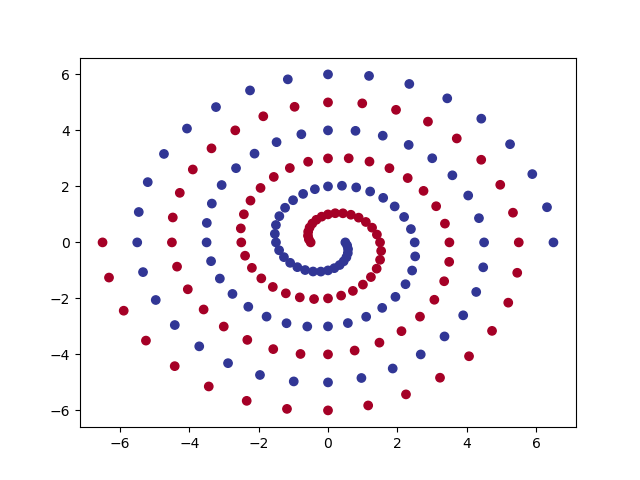
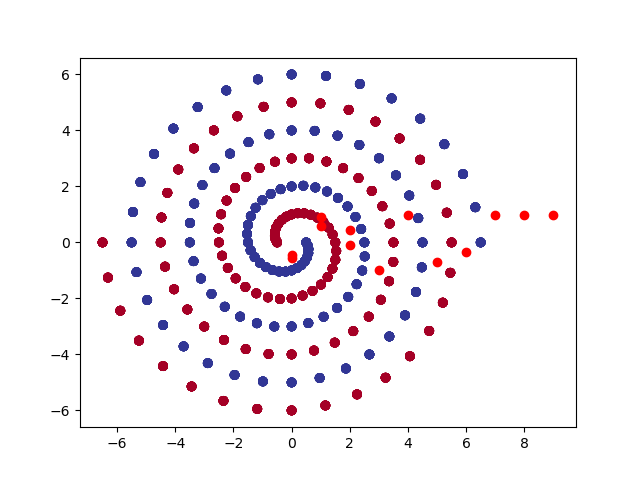
Q 7

diff --git a/COMP9444/Ass/Ass1/spiral.py b/COMP9444/Ass/Ass1/spiral.py
@@ -23,6 +23,7 @@ class PolarNet(torch.nn.Module):
         self.linear2 = torch.nn.Linear(num_hid, 1)  # Why 1 instead of 2?
         self.Tanh = torch.nn.Tanh()
         self.sigmoid = nn.Sigmoid()
+        self.hid1 = 0
 
     def forward(self, input):
         r = cartToPolar(input[:, 0], input[:, 1])
@@ -31,11 +32,13 @@ class PolarNet(torch.nn.Module):
         #print(out)
         out = self.linear1(out)
         out = self.Tanh(out)
+        self.hid1 = out
         out = self.linear2(out)
         #print(self.sigmoid(out))
         return self.sigmoid(out)
 
-class RawNet(torch.nn.Module):
+# python3 spiral_main.py --net raw --init 0.2
+class RawNet(torch.nn.Module): 
     def __init__(self, num_hid):
         super(RawNet, self).__init__()
         self.linear1 = torch.nn.Linear(2, num_hid)
@@ -43,13 +46,17 @@ class RawNet(torch.nn.Module):
         self.linear3 = torch.nn.Linear(num_hid, 1)
         self.Tanh = torch.nn.Tanh()
         self.sigmoid = nn.Sigmoid()
+        self.hid1 = 0
+        self.hid2 = 0
 
     def forward(self, input):
         out = input
         out = self.linear1(out)
         out = self.Tanh(out)
+        self.hid1 = out
         out = self.linear2(out)
         out = self.Tanh(out)
+        self.hid2 = out
         out = self.linear3(out)
         out = self.sigmoid(out)
         return out
@@ -62,17 +69,32 @@ class ShortNet(torch.nn.Module):
         self.linear3 = torch.nn.Linear(num_hid + num_hid + 2, 1)
         self.Tanh = torch.nn.Tanh()
         self.sigmoid = nn.Sigmoid()
+        self.hid1 = 0
+        self.hid2 = 0
 
-    def forward(self, input): ### Merge
+# python3 spiral_main.py --net short --hid 8
+    def forward(self, input):       # --hid 8
         out = input
-        out = self.linear1(out)
-        out = self.Tanh(out)
-        out = self.linear2(out)
-        out = self.Tanh(out)
-        out = self.linear3(out)
-        out = self.sigmoid(out)
-        return out
+        out1 = self.linear1(out)
+        out1 = self.Tanh(out1)
+        self.hid1 = out1
+        out1 = torch.cat([out1, out], 1)
+        out2 = self.linear2(out1)
+        out2 = self.Tanh(out2)
+        self.hid2 = out2
+        out2 = torch.cat([out1, out2], 1)
+        out3 = self.linear3(out2)
+        out3 = self.sigmoid(out3)
+        return out3
 
-def graph_hidden(net, layer, node):
-    plt.clf()
-    # INSERT CODE HERE
+def graph_hidden(net, layer, node): # Module, int, int
+    if layer == 1:
+        hidF = net.hid1
+    else:
+        hidF = net.hid2
+    hid = 0
+    for i in range(len(hidF)):
+        hid += hidF[i][node]
+    hid /= 97
+    hid = hid.detach().numpy()
+    plt.plot(node, hid, 'ro')
